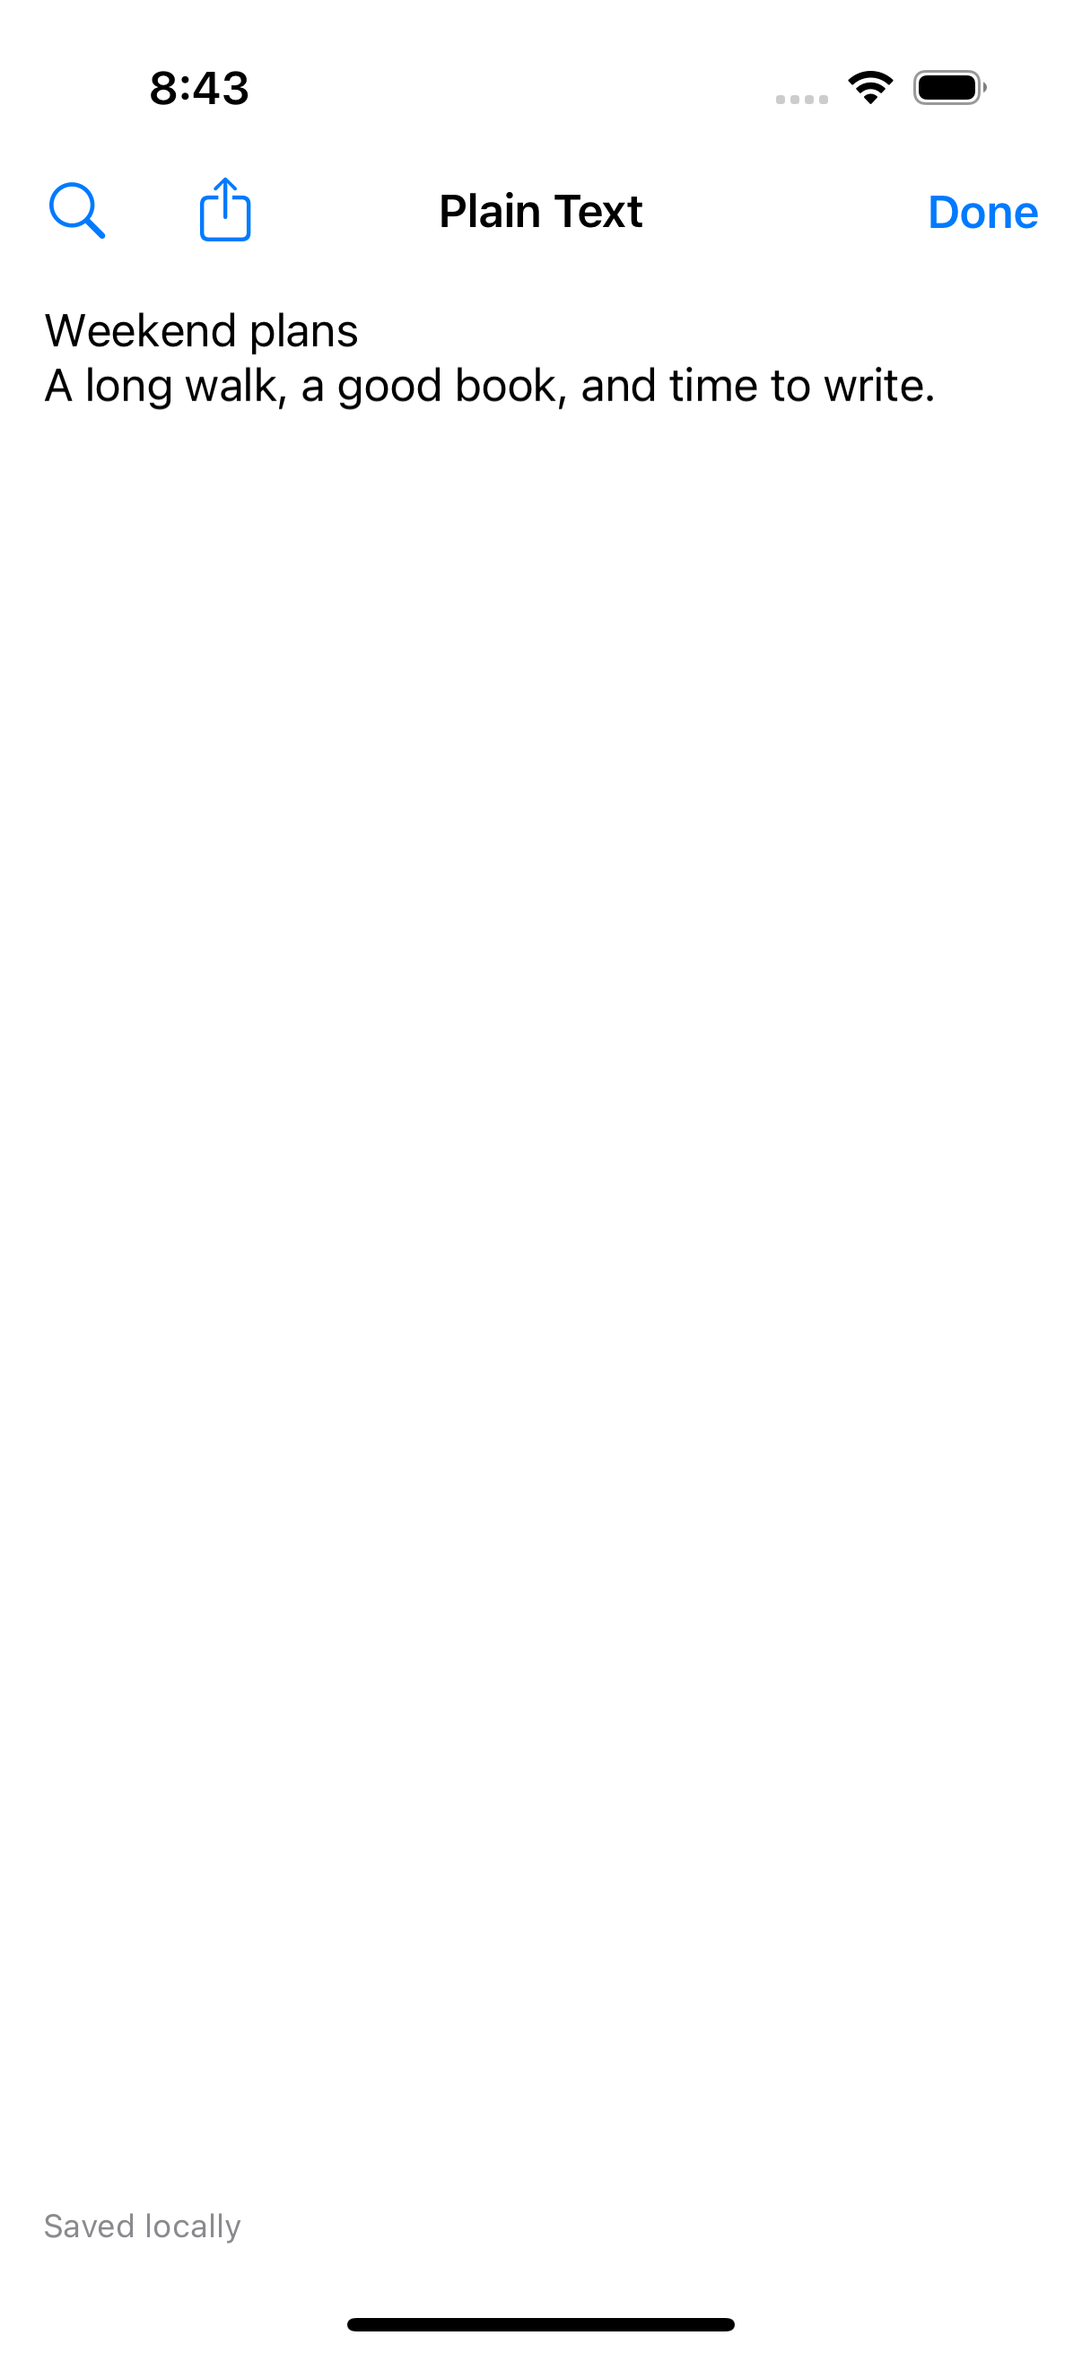
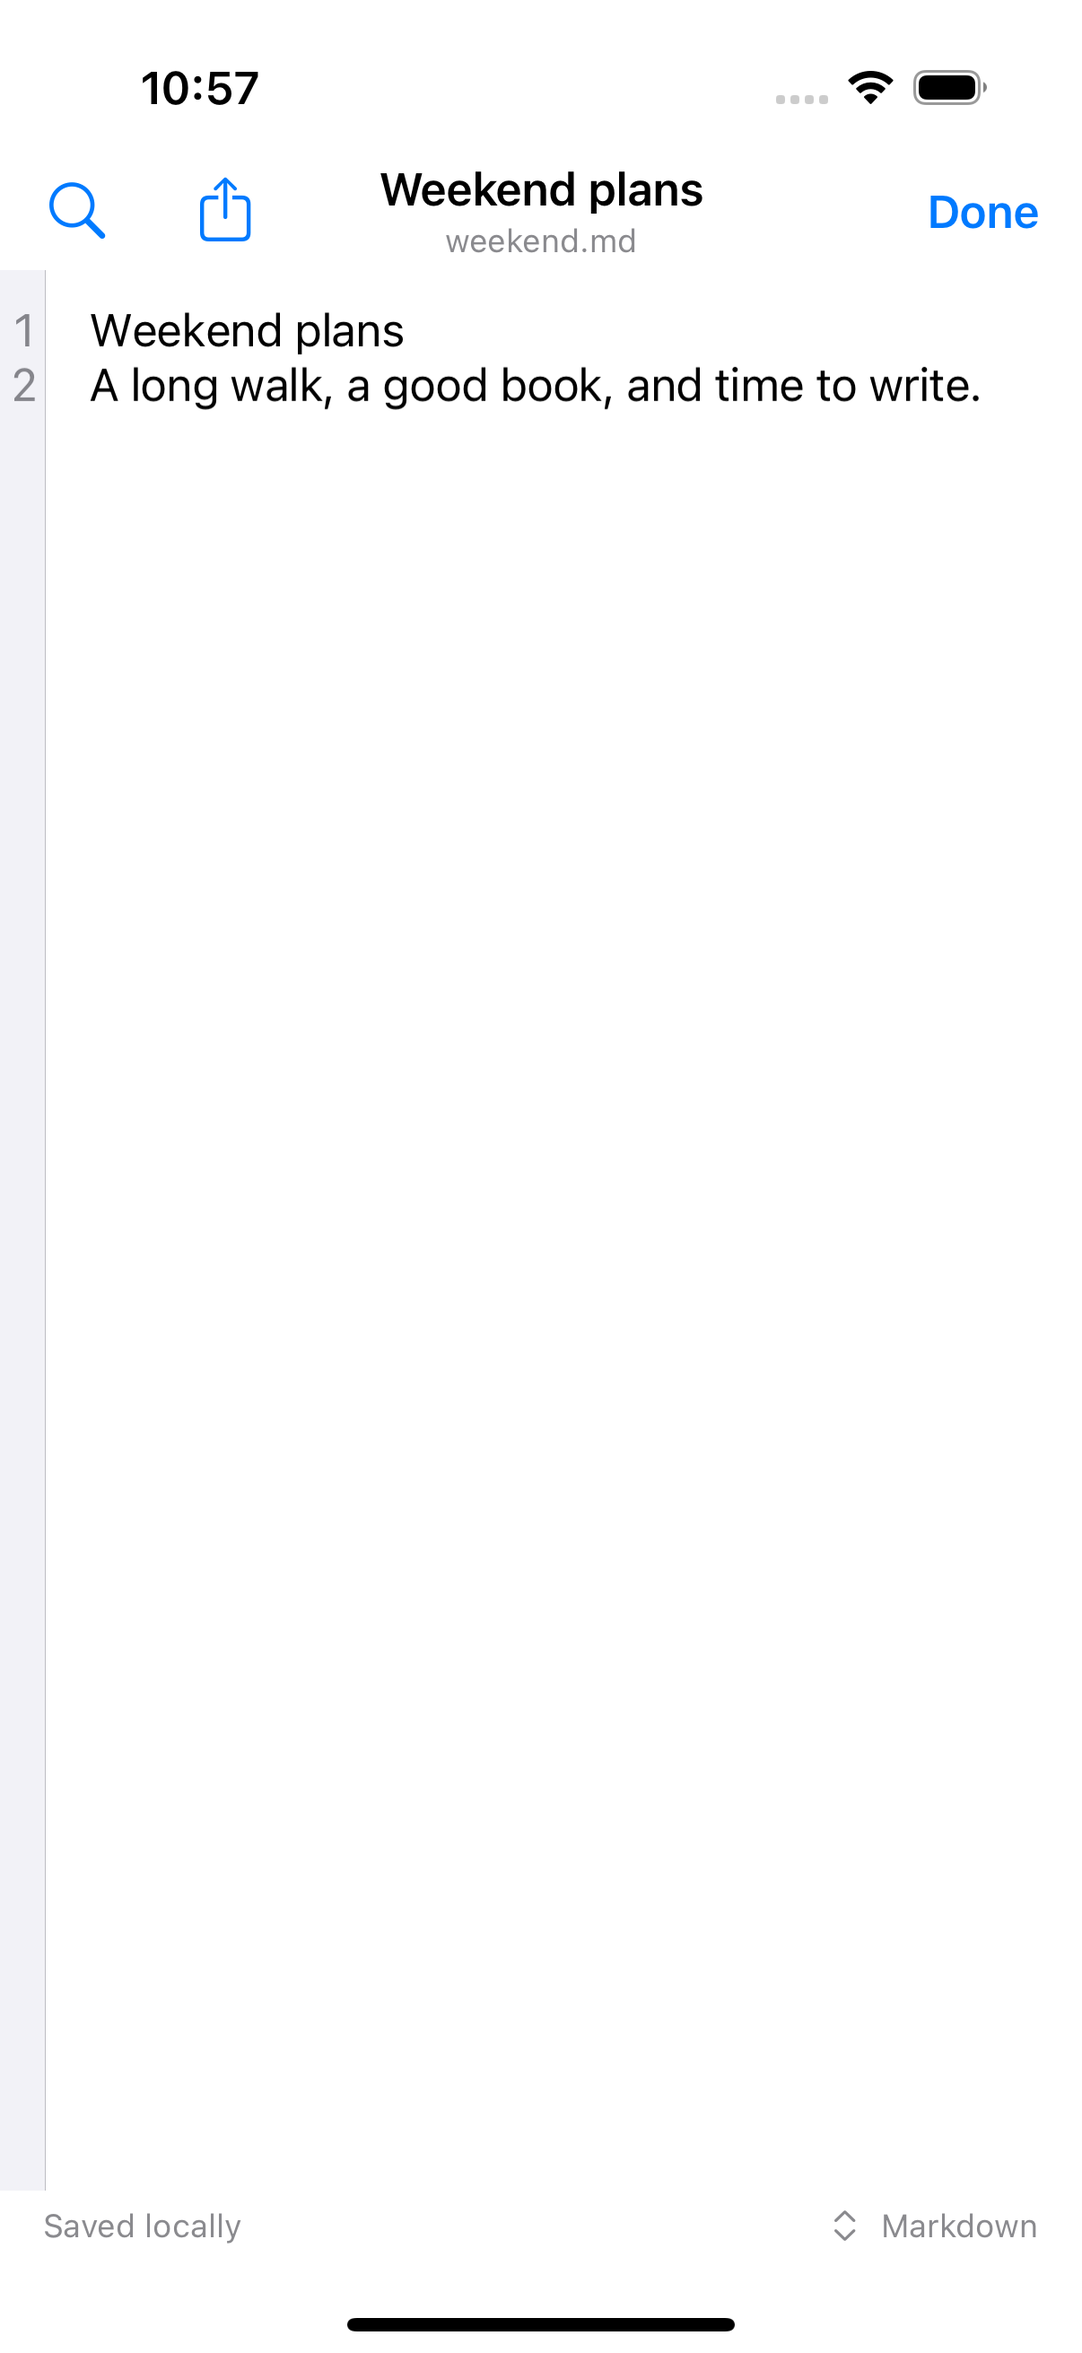
Fix PR lint and prepare v0.7.0 with iOS release assets

diff --git a/build-aux/test_build_ios.py b/build-aux/test_build_ios.py
@@ -23,9 +23,7 @@ class IOSBuildTests(unittest.TestCase):
         root = Path(__file__).resolve().parent.parent
         project = (root / "ios/project.yml").read_text(encoding="utf-8")
         self.assertIn("url: https://github.com/simonbs/Runestone", project)
-        self.assertIn(
-            "revision: 592434a103a4d1ab83e14f87ac6eef569dd7a99d", project
-        )
+        self.assertIn("revision: 592434a103a4d1ab83e14f87ac6eef569dd7a99d", project)
         self.assertIn("- package: Runestone", project)
 
     def test_app_icon_is_wired_to_the_asset_catalog(self) -> None:
@@ -50,14 +48,23 @@ class IOSBuildTests(unittest.TestCase):
         self.assertIn("ASSETCATALOG_COMPILER_APPICON_NAME: AppIcon", project)
         self.assertIn("      - Resources\n", project)
 
-    def test_syntax_grammars_are_pinned_and_only_selected_products_are_linked(self) -> None:
+    def test_syntax_grammars_are_pinned_and_only_selected_products_are_linked(
+        self,
+    ) -> None:
         """Keep language support compatible with the pinned Runestone ABI."""
         root = Path(__file__).resolve().parent.parent
         project = (root / "ios/project.yml").read_text(encoding="utf-8")
         self.assertIn("revision: 15cf3a9ec3ab95e0d058b7df9f35619123c9e02d", project)
         for language in [
-            "Markdown", "MarkdownInline", "JSON", "Python", "Rust",
-            "JavaScript", "Swift", "TOML", "YAML",
+            "Markdown",
+            "MarkdownInline",
+            "JSON",
+            "Python",
+            "Rust",
+            "JavaScript",
+            "Swift",
+            "TOML",
+            "YAML",
         ]:
             self.assertIn(f"product: TreeSitter{language}Runestone", project)
         self.assertNotIn("product: RunestoneLanguageSupport", project)
@@ -145,6 +152,12 @@ class IOSBuildTests(unittest.TestCase):
             digest = hashlib.sha256(b"unsigned archive").hexdigest()
             checksums = (destination / "SHA256SUMS").read_text()
             self.assertEqual(checksums.count(digest), 2)
+            ipa = destination / "paper-trail-ios-arm64-unsigned.ipa"
+            self.assertTrue(ipa.is_file())
+            self.assertEqual(
+                ipa.with_name(f"{ipa.name}.sha256").read_text(),
+                f"{digest}  {ipa.name}\n",
+            )
 
     def test_packaging_rejects_existing_signing_material(self) -> None:
         """A developer's old signed build must never leak into an unsigned artifact."""

diff --git a/build-aux/test_release.py b/build-aux/test_release.py
@@ -6,6 +6,7 @@ from __future__ import annotations
 import hashlib
 import tarfile
 import tempfile
+import tomllib
 import unittest
 import zipfile
 from pathlib import Path
@@ -51,6 +52,20 @@ class ReleaseTests(unittest.TestCase):
                 with self.assertRaises(ValueError):
                     validate_tag(wrong, manifest)
 
+    def test_ios_release_is_required_and_versions_match(self) -> None:
+        """The release must build iOS and present the same public version."""
+        root = Path(__file__).resolve().parent.parent
+        version = tomllib.loads((root / "Cargo.toml").read_text())["workspace"][
+            "package"
+        ]["version"]
+        project = (root / "ios/project.yml").read_text()
+        self.assertIn(f'MARKETING_VERSION: "{version}"', project)
+        workflow = (root / ".github/workflows/release.yml").read_text()
+        self.assertIn("uses: $/.github/workflows/ios.yml", workflow)
+        self.assertIn("needs: [validate, tui, gtk, server, ios]", workflow)
+        ios = (root / ".github/workflows/ios.yml").read_text()
+        self.assertIn("  workflow_call:", ios)
+
     def test_windows_allows_system_crypto_but_rejects_dynamic_crt(self) -> None:
         """System randomness DLLs are allowed, but the C runtime stays static."""
         binary = self.root / "paper-trail-tui.exe"
@@ -76,11 +91,12 @@ class ReleaseTests(unittest.TestCase):
         (source / "debug.png").write_bytes(b"not a release asset")
         destination = self.root / "release"
         collect(source, destination)
-        self.assertEqual(len(PACKAGES), 14)
-        self.assertEqual(len(list(destination.iterdir())), 29)
+        self.assertEqual(len(PACKAGES), 15)
+        self.assertIn("paper-trail-ios-arm64-unsigned.ipa", PACKAGES)
+        self.assertEqual(len(list(destination.iterdir())), 31)
         self.assertFalse((destination / "debug.png").exists())
         lines = (destination / "SHA256SUMS").read_text(encoding="utf-8").splitlines()
-        self.assertEqual(len(lines), 14)
+        self.assertEqual(len(lines), 15)
         for line in lines:
             digest, name = line.split()
             self.assertEqual(

diff --git a/build-aux/build_ios.py b/build-aux/build_ios.py
@@ -187,7 +187,7 @@ def package_artifacts(root: Path, output: Path) -> Path:
                 "-k",
                 "--keepParent",
                 str(payload),
-                str(destination / "Paper-Trail-unsigned.ipa"),
+                str(destination / "paper-trail-ios-arm64-unsigned.ipa"),
             ],
             check=True,
         )
@@ -206,7 +206,11 @@ def package_artifacts(root: Path, output: Path) -> Path:
     for artifact in sorted(destination.iterdir()):
         with artifact.open("rb") as source:
             digest = hashlib.file_digest(source, "sha256").hexdigest()
-        checksums.append(f"{digest}  {artifact.name}\n")
+        checksum = f"{digest}  {artifact.name}\n"
+        checksums.append(checksum)
+        artifact.with_name(f"{artifact.name}.sha256").write_text(
+            checksum, encoding="utf-8"
+        )
     (destination / "SHA256SUMS").write_text("".join(checksums), encoding="utf-8")
     print(f"Unsigned artifacts: {destination}")
     return destination

diff --git a/build-aux/prepare_release.py b/build-aux/prepare_release.py
@@ -21,7 +21,11 @@ PACKAGES = tuple(
     f"paper-trail-{component}-{target}.{'zip' if 'windows' in target else 'tar.gz'}"
     for component in ("tui", "server")
     for target in NATIVE_TARGETS
-) + ("paper-trail-gtk-linux-x86_64.tar.gz", "paper-trail-gtk-linux-x86_64.flatpak")
+) + (
+    "paper-trail-gtk-linux-x86_64.tar.gz",
+    "paper-trail-gtk-linux-x86_64.flatpak",
+    "paper-trail-ios-arm64-unsigned.ipa",
+)
 
 
 def validate_tag(tag: str, manifest: Path) -> None:

diff --git a/docs/release-notes.md b/docs/release-notes.md
@@ -1,25 +1,19 @@
-# Paper Trail 0.6.0
+# Paper Trail 0.7.0
 
 ## Highlights
 
-- Permanently erase a synced folder's server-side note content/history with an
-  explicit confirmation in GTK or TUI. Local files are kept, and authenticated
-  deletion markers prevent other devices from silently uploading the folder again.
-- Closing a folder now pauses its sync on that device. Reopening restores local
-  access only; explicitly re-enable sync to resume. Pending work and server copies
-  are retained, and late GTK sync results cannot reopen closed bookmarks.
-- Both sync configuration interfaces remain open after deletion and preserve other
-  draft selections. Retained local folders offer **Sync as New Folder** with fresh
-  folder/note IDs; server-only deletion markers are hidden.
-- Optional **Remember encryption password on this device** in graphical sessions,
-  with secure credential-store integration and asynchronous startup restoration.
-  SSH/headless sessions retain manual, session-only authentication.
-- Improved cancellable browser sign-in, Linux portal/browser launching, branded
-  callback pages, account/vault prompts, and privacy-preserving connection errors.
-- Embedded Neovim input, managed-buffer lifecycle and explicit-write fixes, plus
-  clearer TUI status/layout. The built-in editor remains the default.
-- Native release build shortcuts: `make tui`, `make desktop`, `make server`, or
-  `make all`. Downloads still include all fourteen checksum-verified packages.
+- Experimental native iOS client now included in releases as an unsigned ARM64 IPA.
+  It shares the Rust core, file handling, and encrypted sync with desktop clients.
+- Native iOS sync setup, vault controls, folder colors and ordering, note moves,
+  rename, pinning, deletion, share, and in-note Find.
+- Runestone syntax highlighting for Markdown, JSON, Python, Rust, JavaScript,
+  Swift, TOML, and YAML, with per-note language choices shared with GTK.
+- Editor font/display preferences, live title above filename, save-before-close
+  edge swipe, floating New Note, pull-down search, and clearer local/sync feedback.
+- Settings About shows the installed version/build and source link. Updated
+  screenshots and regression tests cover the native interfaces.
+- All fifteen release packages require verified checksums and successful builds;
+  iOS simulator UI, state, and grammar tests now gate release publication.
 
 Sync is experimental and has not had an independent security audit. Local working
 files and comparison baselines remain plaintext. **Upgrade the server and all clients
@@ -28,7 +22,7 @@ older server binaries then refuse to open it. After erasure, legacy/stale client
 fail closed instead of resurrecting data. Existing vault passphrases and recovery
 keys remain valid. Deletion retains encrypted catalog metadata and content-free
 history receipts; independent server backups and previously downloaded copies are
-not erased. See [encrypted sync setup and security boundaries](https://github.com/maennlse/paper-trail/blob/v0.6.0/docs/encrypted-sync.md).
+not erased. See [encrypted sync setup and security boundaries](https://github.com/maennlse/paper-trail/blob/v0.7.0/docs/encrypted-sync.md).
 
 Embedded Neovim requires an installed `nvim` 0.9+ executable and is not bundled.
 Press F2, type `set editor neovim`, and Enter to enable it; F6 changes panes.
@@ -38,6 +32,10 @@ login callback tab from closing automatically; manual close remains available.
 
 ## Downloads
 
+- **iOS 17+, ARM64 (experimental):** `paper-trail-ios-arm64-unsigned.ipa` requires
+  signing with your chosen sideloading tool before installation. It is not an
+  App Store or TestFlight build. No Apple credentials are used in CI. See the
+  [iOS build and sideloading guide](https://github.com/maennlse/paper-trail/blob/v0.7.0/docs/ios.md).
 - **GTK desktop, Linux x86_64:** `paper-trail-gtk-linux-x86_64.flatpak` is the
   recommended download. Flatpak installs the separate GNOME runtime from Flathub
   as needed; the bundle does not include the runtime for offline installation.

diff --git a/docs/ios.md b/docs/ios.md
@@ -8,10 +8,13 @@ local note files.
 
 ## Get an unsigned IPA without a Mac
 
+Tagged releases include `paper-trail-ios-arm64-unsigned.ipa` and its `.sha256`
+checksum. For development builds:
+
 1. Push this source to GitHub.
 2. Open **Actions → Unsigned iOS → Run workflow**, choosing the desired branch.
 3. Download the `paper-trail-ios-unsigned` artifact.
-4. Extract it and locate `Paper-Trail-unsigned.ipa` and `SHA256SUMS`.
+4. Extract it and locate `paper-trail-ios-arm64-unsigned.ipa` and `SHA256SUMS`.
 5. Use a sideloading tool such as iLoader to sign/install the IPA.
 
 The IPA intentionally contains no signature, provisioning profile, Apple account,
@@ -21,8 +24,9 @@ tool, subject to Apple's device/app limits and expiration rules. These limitatio
 are not bypassed by this project. No paid Apple Developer account or signing
 secrets are required to **build** the workflow artifacts.
 
-The workflow runs manually or on pull requests that change iOS/Rust build inputs,
-has read-only repository permissions, and never creates a release or tag.
+The workflow runs manually, on pull requests that change iOS/Rust build inputs,
+or as a reusable job in the tag-triggered release workflow.
+It has read-only repository permissions and never creates a release or tag itself.
 It also produces an Apple Silicon simulator app archive and
 runs a simulator smoke test. Workflow execution and physical-device/iCloud
 behavior still need verification on Apple's platforms.
@@ -161,7 +165,7 @@ executable archives and cannot be built on the Linux host.
   text or undo stack. Settings are committed together when **Done** is pressed
   and restored after relaunch.
 - The **About** section shows the running app's bundle version/build and a native
-  link to the GitHub source repository; the displayed version is not hard-coded.
+  link to the GitHub source repository; the displayed version is not hardcoded.
 
 ## Rust API audit and boundary
 
@@ -271,14 +275,14 @@ Also verify actual share destinations on iPhone/iPad (including cancellation),
 Command-F and find dismissal/selection, and save/sync recovery while editing
 offline or after an external conflicting edit.
 
-### README screenshots
+### Readme screenshots
 
 `testCaptureReadmeScreenshots` captures the actual library/rail and Runestone editor
 with isolated demonstration files. It never reads real notes or bookmarks.
 The macOS workflow exports its XCTest attachments as the
 `paper-trail-ios-screenshots` artifact, including on successful runs.
 Download it from **Actions → Unsigned iOS**; its manifest identifies the
-`ios-library` and `ios-editor` PNG attachments. The README includes real iPhone 16
+`ios-library` and `ios-editor` PNG attachments. The readme includes real iPhone 16
 Pro simulator captures from this test. To refresh them, review the new captures
 and copy them to `data/screenshots/ios-library.png` and
 `data/screenshots/ios-editor.png`. Do not substitute a mockup for a real

diff --git a/docs/releases.md b/docs/releases.md
@@ -5,9 +5,10 @@ exactly match `v` plus `[workspace.package].version` in `Cargo.toml`; a mismatch
 tag fails before any build or publication. Prerelease versions such as
 `v0.3.0-rc.1` are published as GitHub prereleases.
 
-The release workflow reuses the Rust/GTK, standalone TUI, and standalone server
+The release workflow reuses the Rust/GTK, standalone TUI, standalone server, and iOS
 workflows. All tests, six native TUI and six server target builds/linkage checks,
-the native GTK build, and the GTK Flatpak build must succeed before publishing.
+the native GTK build, the GTK Flatpak build, and unsigned iOS builds with simulator
+UI/state/grammar tests must succeed before publishing.
 Normal branch pushes and PRs still upload CI artifacts, but do not create releases.
 
 ## Release assets
@@ -19,7 +20,11 @@ Normal branch pushes and PRs still upload CI artifacts, but do not create releas
   the server executable and deployment readme, never configuration or credentials.
 - Native GTK Linux x86_64 `.tar.gz`: executable, `README.md`, and build/dependency info.
 - GTK Linux x86_64 `.flatpak` bundle, with runtime-repository information.
-- Per-package `.sha256` files and a combined `SHA256SUMS` (fourteen packages total).
+- Experimental iOS 17+ ARM64 unsigned device IPA:
+  `paper-trail-ios-arm64-unsigned.ipa`. Installation requires signing with a
+  sideloading tool; no Apple credentials are used in CI. Simulator apps,
+  screenshots, and test reports remain CI artifacts, not release assets.
+- Per-package `.sha256` files and a combined `SHA256SUMS` (fifteen packages total).
 
 The publish job downloads artifacts from the same workflow run, rejects missing
 or duplicate packages, verifies every checksum, and stages only the expected
@@ -30,14 +35,14 @@ the publish job has `contents: write`; build jobs use read-only permissions.
 
 ## Creating a release (explicit maintainer action)
 
-1. Review and merge the changes. Confirm the version in Cargo, Meson, and release
+1. Review and merge the changes. Confirm the version in Cargo, Meson, iOS, and release
    metadata; update the lockfile and Flatpak sources when needed.
 2. Wait for the branch checks to pass.
 3. Create and push the matching version tag. For the current Cargo version:
 
    ```sh
-    git tag -a v0.6.0 -m "Release 0.6.0"
-    git push origin v0.6.0
+    git tag -a v0.7.0 -m "Release 0.7.0"
+    git push origin v0.7.0
    ```
 
 4. Watch the **Release** workflow. Inspect the resulting downloads and release notes.
@@ -56,7 +61,7 @@ releases are not silently overwritten.
 
 ```sh
 python3 -m unittest discover -s build-aux -p test_release.py
-python3 build-aux/prepare_release.py validate-tag v0.6.0
+python3 build-aux/prepare_release.py validate-tag v0.7.0
 python3 build-aux/package_desktop.py
 python3 build-aux/package_server.py x86_64-unknown-linux-musl
 ```

diff --git a/README.md b/README.md
@@ -7,6 +7,7 @@
 [![Release](https://img.shields.io/github/v/release/maennlse/paper-trail)](https://github.com/maennlse/paper-trail/releases/latest)
 [![Build](https://github.com/maennlse/paper-trail/actions/workflows/rust.yml/badge.svg)](https://github.com/maennlse/paper-trail/actions/workflows/rust.yml)
 [![Standalone TUI](https://github.com/maennlse/paper-trail/actions/workflows/tui.yml/badge.svg)](https://github.com/maennlse/paper-trail/actions/workflows/tui.yml)
+[![iOS build](https://github.com/maennlse/paper-trail/actions/workflows/ios.yml/badge.svg)](https://github.com/maennlse/paper-trail/actions/workflows/ios.yml)
 [![Lint](https://github.com/maennlse/paper-trail/actions/workflows/super-linter.yml/badge.svg)](https://github.com/maennlse/paper-trail/actions/workflows/super-linter.yml)
 [![Built with Rust](https://img.shields.io/badge/built_with-Rust-dea584?logo=rust)](https://www.rust-lang.org/)
 [![TUI platforms: Linux, Windows, macOS](https://img.shields.io/badge/TUI-Linux%20%C2%B7%20Windows%20%C2%B7%20macOS-4c8eda)](docs/tui.md)
@@ -84,7 +85,8 @@ A native iOS 17+ SwiftUI client shares the Rust core through UniFFI. Build an
 **unsigned IPA** using the manual **Unsigned iOS** GitHub Actions workflow, then
 sign/install it with a sideloading tool such as iLoader. No Apple signing
 credentials are needed in CI. See the [iOS build and sideloading guide](docs/ios.md).
-The iOS app is not part of the tagged release package set yet.
+Tagged releases include `paper-trail-ios-arm64-unsigned.ipa`; simulator apps
+remain available only as CI artifacts.
 
 ## Plain files, lasting notes
 

diff --git a/AGENTS.md b/AGENTS.md
@@ -55,9 +55,9 @@ Run `meson compile -C _build` for packaging regressions. Regenerate
 `cargo-sources.json` after lockfile changes using
 `python3 build-aux/generate_flatpak_sources.py`.
 
-Release builds reuse `.github/workflows/rust.yml`, `tui.yml`, and `server.yml` from the
+Release builds reuse `.github/workflows/rust.yml`, `tui.yml`, `server.yml`, and `ios.yml` from the
 tag-triggered `release.yml`. Keep write permissions confined to the publish job
-and require all fourteen checksum-verified packages before publishing. Run release
+and require all fifteen checksum-verified packages before publishing. Run release
 helper tests with `python3 -m unittest discover -s build-aux -p test_release.py`.
 Creating/pushing version tags and publishing releases require explicit user intent;
 see `docs/releases.md`.
